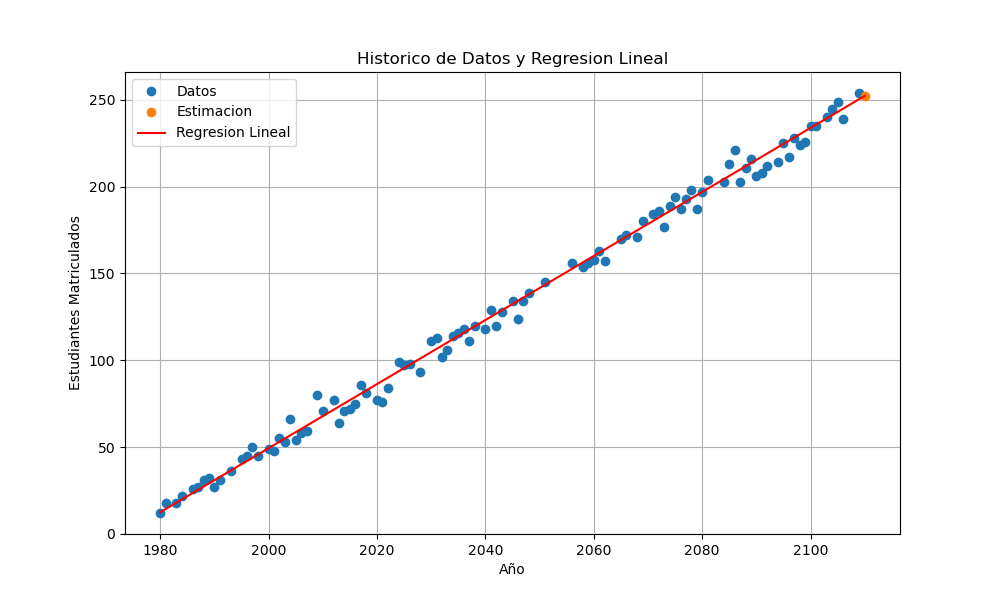
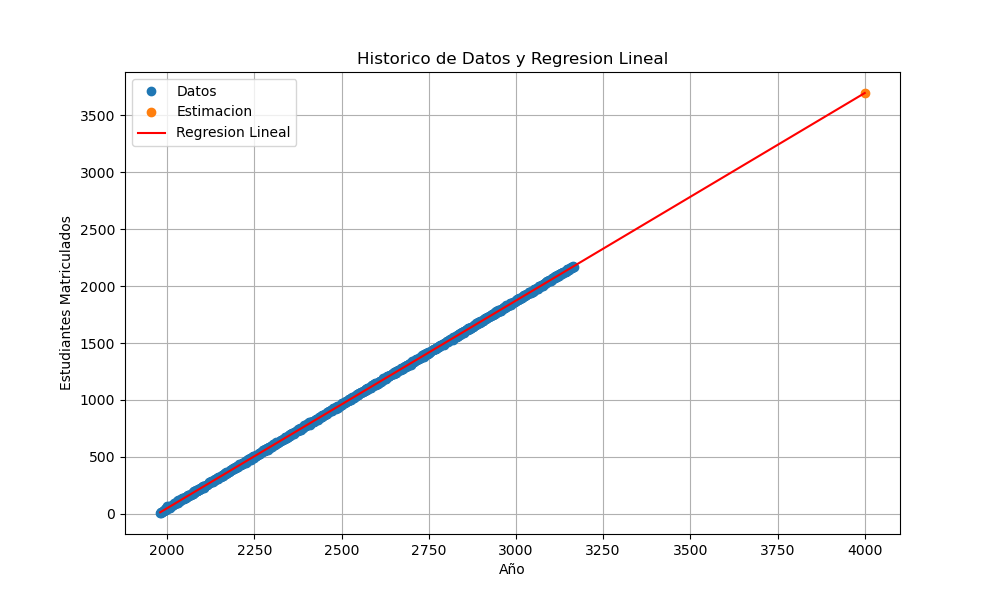
Optimizacion 1

diff --git a/func.py b/func.py
@@ -418,7 +418,7 @@ def promediar(lista,r=None):
     promedio = 0
     if len(lista)>0:
         for elemento in lista:
-            if type(elemento) == type("a"):
+            if type(elemento) == type(123):
                 promedio+=elemento
                 total+=1
             else:
@@ -436,71 +436,86 @@ def tanteoBaj(años, csEst):
     c = 0
     #Contador de iteraciones
     k = 0
+    #Veces que el centro se mueve (a1, a2, a4, a5)
     k1 = 0
+    #Veces que el centro se queda quieto y hace Zoom
     k2 = 0
     #Centrar años
-    años = [año - (promediar(años)) for año in años]
+    pa = promediar(años)
+    años = [año - pa for año in años]
 
     a = (csEst[-1] - csEst[0])/(años[-1] - años[0])
-    p = promediar(csEst)
-    my = mae(regresion(a, p, años), csEst)
+    p0 = promediar(csEst)
+    pAct = p0
+    my = mae(regresion(a, pAct, años), csEst)
+    c+=1
 
     #Inicializar variables para tanteo en bajada por zoom
-    rango,centro = a
-    cambiable = True
-    while cambiable:
-        candidatos = list()
-        a1 = centro-rango
-        a2 = centro-(rango/2)
-        a3 = centro
-        a4 = centro+(rango/2)
-        a5 = centro+rango
+    rangoA,centroA = abs(a),a
+    minB = minimo(csEst)
+    maxB = mayor(csEst,False)
+    
+    rangoB = (maxB - minB) / 2
+    centroB = (minB + maxB) / 2
+    while rangoA>=0.001 or rangoB>=0.001:
+        k+=1
+        if rangoA >= 0.001:
+            candidatos = list()
+            a1 = centroA-rangoA
+            a2 = centroA-(rangoA/2)
+            a3 = centroA
+            a4 = centroA+(rangoA/2)
+            a5 = centroA+rangoA
 
-        y1 = regresion(a1,p,años)
-        y2 = regresion(a2,p,años)
-        y3 = regresion(a3,p,años)
-        y4 = regresion(a4,p,años)
-        y5 = regresion(a5,p,años)
+            y1 = regresion(a1,pAct,años)
+            y2 = regresion(a2,pAct,años)
+            y3 = regresion(a3,pAct,años)
+            y4 = regresion(a4,pAct,años)
+            y5 = regresion(a5,pAct,años)
 
-        candidatos = [(mae(y1, csEst), a1),(mae(y2, csEst), a2),(mae(y3, csEst), a3),(mae(y4, csEst), a4),(mae(y5, csEst), a5)]
-        c+=5 #Se usa mas MAE
-        my, centro= minimo(candidatos)
-        if not (a == a1 or a == a5):
-            rango = rango/2
-        #Evaluar si finalizar
-        if rango < 0.001:
-            a = centro
-            while True:    
-                candidatos = list()
-                minB = csEst[0]
-                for cc in csEst:
-                    if cc < minB:
-                        minB = cc
-                rango = (mayor(csEst) - minB) / 2
-                centro = (minB + mayor(csEst)) / 2
-                p1 = centro-rango
-                p2 = centro-(rango/2)
-                p3 = centro
-                p4 = centro+(rango/2)
-                p5 = centro+rango
+            candidatos = [(mae(y1, csEst), a1),(mae(y2, csEst), a2),(mae(y3, csEst), a3),(mae(y4, csEst), a4),(mae(y5, csEst), a5)]
+            c+=5 #Se usa mas MAE
+            ganador = minimo(candidatos)
+            if ganador[1] == centroA:
+                k2+=1
+            else:
+                k1+=1
+            print(my)#DEbug
+            my, centroA= ganador
+            print(my)
+            if not (centroA == a1 or centroA == a5):
+                rangoA = rangoA/2
+            if a != centroA:
+                a = centroA 
 
-                y1 = regresion(a,p1,años)
-                y2 = regresion(a,p2,años)
-                y3 = regresion(a,p3,años)
-                y4 = regresion(a,p4,años)
-                y5 = regresion(a,p5,años)
+        if rangoB >= 0.001:
+            candidatos = list()
+            p1 = centroB-rangoB
+            p2 = centroB-(rangoB/2)
+            p3 = centroB
+            p4 = centroB+(rangoB/2)
+            p5 = centroB+rangoB
 
-                candidatos = [(mae(y1, csEst), p1),(mae(y2, csEst), p2),(mae(y3, csEst), p3),(mae(y4, csEst), p4),(mae(y5, csEst), p5)]
-                c+=5 #Se usa mas MAE
-                my, centro= minimo(candidatos)
-                if not (a == a1 or a == a5):
-                    rango = rango/2
-                #Evaluar si finalizar
-                if rango < 0.001:
-                    #Convertir p (b normalizada con la media) en b con los años REALES
-                    b = centro - a*promediar(años)
-                    break
-            break
+            y1 = regresion(a,p1,años)
+            y2 = regresion(a,p2,años)
+            y3 = regresion(a,p3,años)
+            y4 = regresion(a,p4,años)
+            y5 = regresion(a,p5,años)
+
+            candidatos = [(mae(y1, csEst), p1),(mae(y2, csEst), p2),(mae(y3, csEst), p3),(mae(y4, csEst), p4),(mae(y5, csEst), p5)]
+            c+=5 #Se usa mas MAE
+            ganador = minimo(candidatos)
+            if ganador[1] == centroB:
+                k2+=1
+            else:
+                k1+=1
+            my, centroB= ganador
+            if not (centroB == p1 or centroB == p5):
+                rangoB = rangoB/2
+            if pAct != centroB:
+                pAct = centroB 
+    #Convertir p (b normalizada con la media) en b con los años REALES
+    b = centroB - a*pa
  
     return a,b,my,c,k,k1,k2
 
